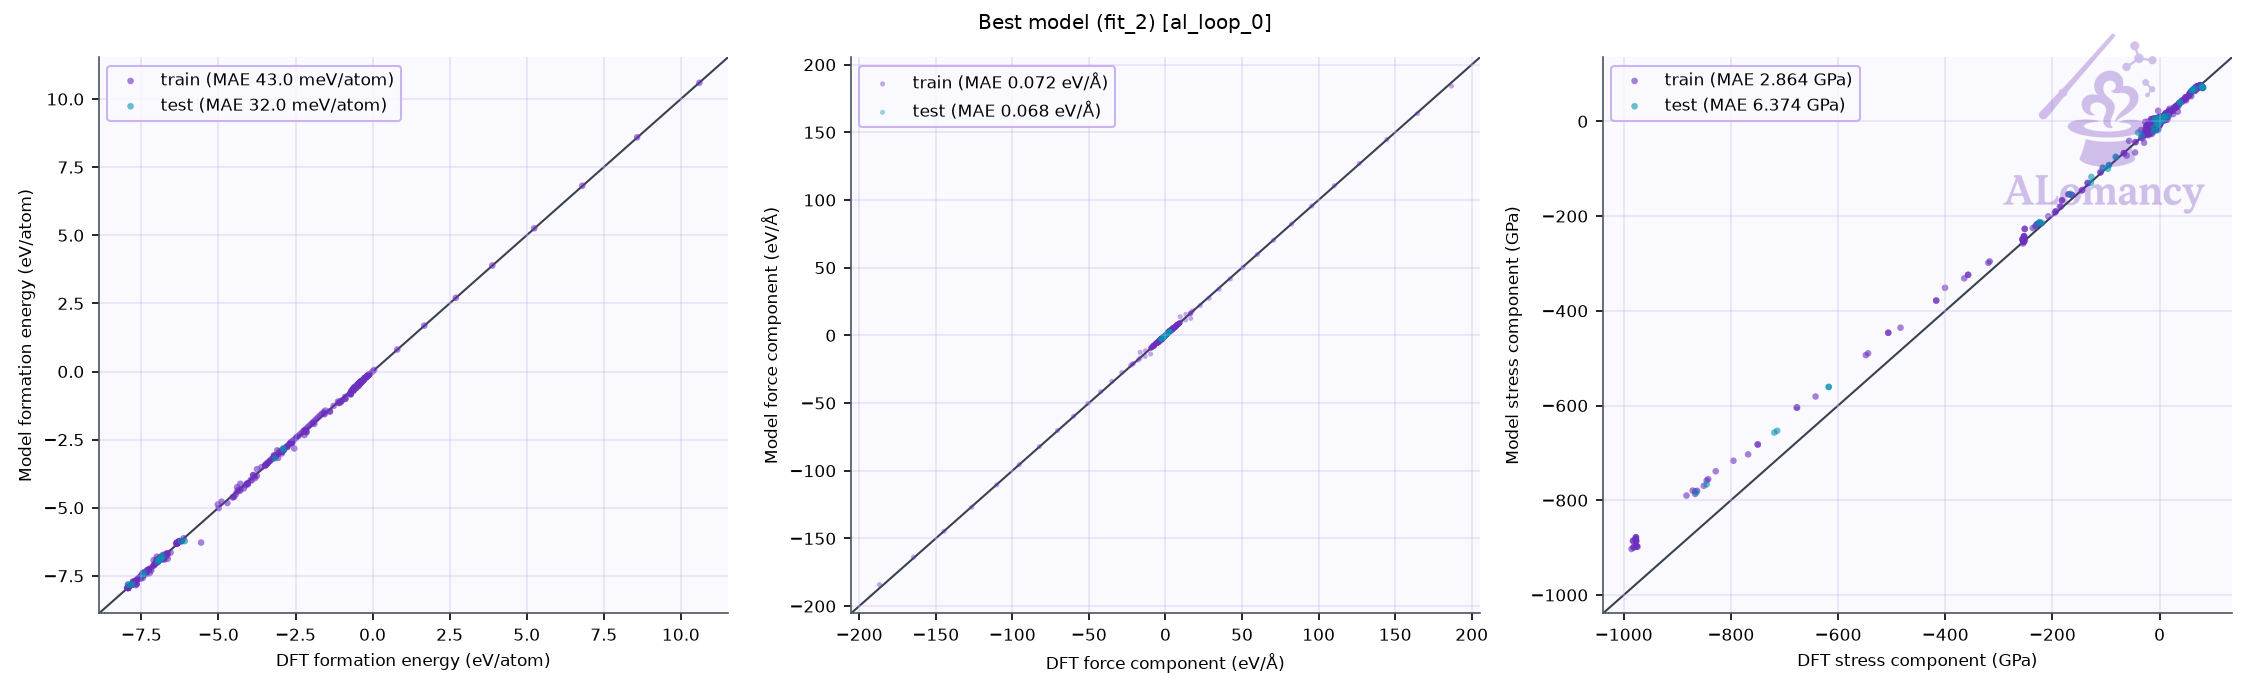
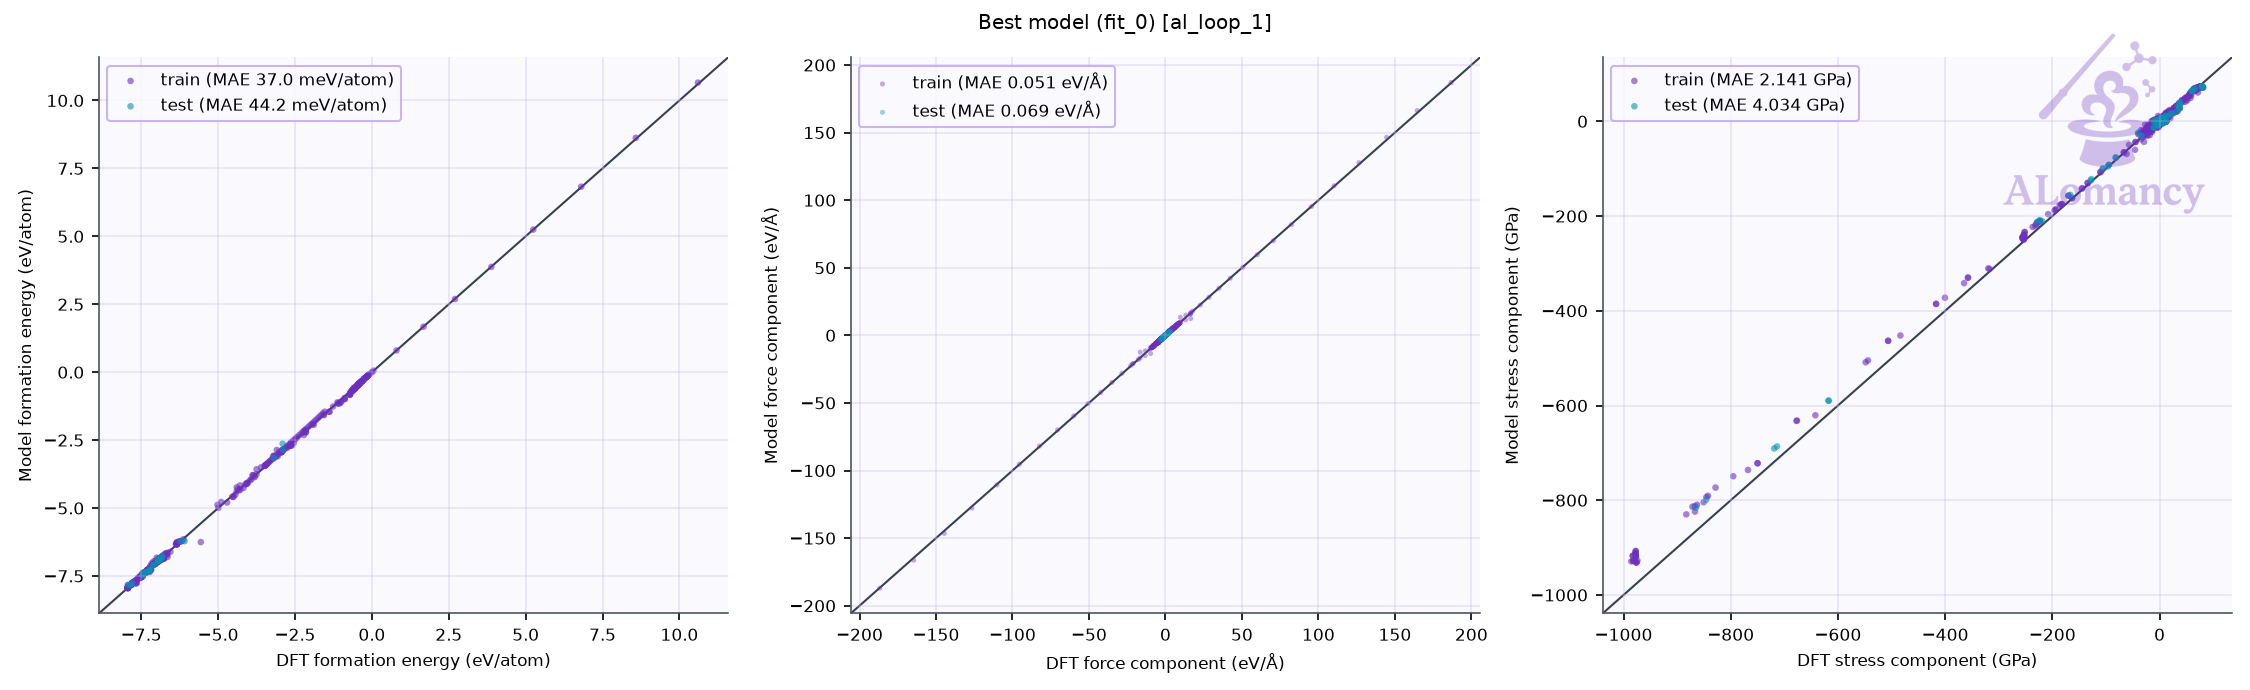
update viper_omat_ezga_committee, viper_omat_ezga_novelty, viper_omat_md_novelty, viper_omat_md_random

diff --git a/alomancy/viper_omat_ezga_committee/report/report.md b/alomancy/viper_omat_ezga_committee/report/report.md
@@ -1,33 +1,32 @@
-# ALomancy report: al_loop_0
+# ALomancy report: al_loop_1
 
-Workflow `committee_uncertainty` · trainer `mace` · generator `ezga` · evaluator `qe` · generated 2026-11-17T08:26:58
+Workflow `committee_uncertainty` · trainer `mace` · generator `ezga` · evaluator `qe` · generated 2026-11-23T06:09:33
 
-**Status:** ✖ 2 errors · 💡 1 info · 5 warning(s) logged
+**Status:** 💡 1 info · 3 warning(s) logged
 
 ## Headline
 
-| | previous | loop 0 | change |
+| | loop 0 | loop 1 | change |
 |---|---:|---:|---:|
-| Best model test force MAE (eV/Å) | n/a | 0.0683 |  |
-| Best model test energy MAE (meV/atom) | n/a | 32 |  |
-| Training structures | n/a | 436 |  |
-| Test structures | n/a | 27 |  |
-| New structures this loop | n/a | 47 |  |
-| Warnings / errors logged | n/a | 5 |  |
+| Best model test force MAE (eV/Å) | 0.0683 | 0.0685 | +0% |
+| Best model test energy MAE (meV/atom) | 32 | 44.2 | +38% |
+| Training structures | 436 | 524 | +20% |
+| Test structures | 27 | 37 | +37% |
+| New structures this loop | 47 | 49 | +4% |
+| Warnings / errors logged | 5 | 3 | -40% |
 
-Best model: fit_2 of 3 (chosen on the `valid` split).
+Best model: fit_0 of 3 (chosen on the `valid` split).
 
 ## Issues & suggestions
 
-- ✖ **remote_jobs_failed**: 3/57 remote jobs (5%) failed (3) or died (0). Check the job logs (results/alomancy.log has each failure's traceback); jobs killed by the scheduler usually need a longer max_time for that phase, or a partition with more memory.
-- ✖ **dft_partial_failure**: 3/50 structures sent to DFT (6%) came back without a result. Check the DFT output in results/<loop>/high_accuracy_evaluation; raise high_accuracy_evaluation.max_time / max_go_time if jobs timed out.
-- 💡 **queue_dominated**: training_plots spent 99% of its time (12.3 h) queued. Raise max_num_of_concurrent_jobs in the HPC profile or use a less busy partition.
+- 💡 **queue_dominated**: high_accuracy_evaluation spent 99% of its time (97.5 h) queued. Raise max_num_of_concurrent_jobs in the HPC profile or use a less busy partition.
 
 ## Trends
 
 | loop | test F-MAE (eV/Å) | train | new | DFT returned | GO converged | new redundant | warnings |
 |---:|---:|---:|---:|---:|---:|---:|---:|
 | 0 | 0.0683 | 436 | 47 | 47/50 | 100% | 0 | 5 |
+| 1 | 0.0685 | 524 | 49 | 49/50 | 100% | 0 | 3 |
 
 ![Best-model MAE per loop](plots/training_al_loop_mae_plot.png)
 
@@ -37,7 +36,7 @@ Best model: fit_2 of 3 (chosen on the `valid` split).
 
 ![Best model parity](plots/best_model_parity.png)
 
-Median relative error: train energy 1.0%, force 6.6%; test energy 0.3%, force 16.6%.
+Median relative error: train energy 0.7%, force 5.7%; test energy 0.3%, force 10.9%.
 Energies with |formation energy| < 0.05 eV/atom and atoms with |F| < 0.1 eV/Å are left out; force error is |ΔF|/|F| per atom.
 
 ![Best model percentage error](plots/best_model_percent_error.png)
@@ -47,17 +46,17 @@ Energies with |formation energy| < 0.05 eV/atom and atoms with |F| < 0.1 eV/Å a
 | config_type | Train | Test | Excluded: quality filter | total |
 |---|---:|---:|---:|---:|
 | IsolatedAtom | 1 | 0 | 0 | 1 |
-| high_sd | 77 | 9 | 8 | 94 |
+| high_sd | 165 | 19 | 8 | 192 |
 | init_MP | 7 | 1 | 0 | 8 |
 | init_amorphous | 26 | 3 | 0 | 29 |
 | init_dimer | 79 | 0 | 0 | 79 |
 | init_rattle | 41 | 1 | 232 | 274 |
 | init_stretch_compress | 126 | 13 | 129 | 268 |
 | init_trimer | 79 | 0 | 0 | 79 |
-| **all** | **436** | **27** | **369** | **832** |
+| **all** | **524** | **37** | **369** | **930** |
 
-- Redundancy removal: 0 structure(s) flagged in total, 0 of this loop's 47 new.
-- DFT geometry-optimisation starting frames: 47 stored this loop, 39 used (the rest excluded by the train/test filters or redundancy removal).
+- Redundancy removal: 0 structure(s) flagged in total, 0 of this loop's 49 new.
+- DFT geometry-optimisation starting frames: 49 stored this loop, 49 used (the rest excluded by the train/test filters or redundancy removal).
 - Quality filters: high_force: 369, formation_energy: 17.
 
 ![Training set composition](plots/training_set_composition.png)
@@ -66,17 +65,17 @@ Energies with |formation energy| < 0.05 eV/atom and atoms with |F| < 0.1 eV/Å a
 
 Redundancy removal flags near-duplicate training structures, so the model isn't trained on many copies of the same geometry. Each structure is described by `char_vec_128`: all of its interatomic distances, sorted and resampled to 128 values (`global_descriptor/atomic_distance_descriptor.make_char_vec`). Two structures count as duplicates when the Euclidean distance between their descriptors is below a tolerance: in database order, each structure still in the training set is kept unless it is within the tolerance of one already kept. The plot sweeps that tolerance and counts how many structures are kept at each value. **We are looking for plateaus** (shaded): ranges where the count doesn't change, so the result doesn't depend on the exact tolerance. The orange line (right axis) is the number of structures removed between consecutive tolerance steps, the gradient of the count: zero on a plateau. The start of the lowest plateau at least `general.redundancy_kwargs.min_plateau_width` of the swept range wide is used (dashed line). Nothing is flagged when no plateau qualifies, or when it would flag more than `max_flagged_fraction` of the structures; `general.redundancy_kwargs.tolerance` sets the tolerance directly.
 
-- This loop: 151 structures probed; the lowest plateau would flag more than 50% of them, so nothing was flagged.
+- This loop: 239 structures probed; the lowest plateau would flag more than 50% of them, so nothing was flagged.
 
 ![Redundancy tolerance probe](plots/redundancy_tolerance_probe.png)
 
 ## DFT
 
-- Structures: 47 returned of 50 submitted (47 relaxed, 0 single point).
-- Geometry optimisation: 47/47 reached the force ceiling (0.05 eV/Å); steps mean 25.1, median 15, max 167 of 200 allowed.
-- Average DFT time per relaxation: 16.2 min (median 10.7, max 96.9; 47 structures).
+- Structures: 49 returned of 50 submitted (49 relaxed, 0 single point).
+- Geometry optimisation: 49/49 reached the force ceiling (0.05 eV/Å); steps mean 21.0, median 17, max 138 of 200 allowed.
+- Average DFT time per relaxation: 9.5 min (median 7.3, max 53.1; 49 structures).
 - Largest per-atom force after DFT: median 0.04, max 0.05 eV/Å.
-- DFT phase wall-clock: 3.6 h (mean queue time 98 min).
+- DFT phase wall-clock: 98.5 h (mean queue time 5849 min).
 
 **Structures evaluated with DFT this loop (final geometries)**
 
@@ -84,14 +83,14 @@ Redundancy removal flags near-duplicate training structures, so the model isn't 
 
 ## MLIP training: mace
 
-- Best fit (fit_2) trained for 299 epochs, stage two from epoch 240; weights kept from epoch 249.
+- Best fit (fit_0) trained for 299 epochs, stage two from epoch 240; weights kept from epoch 260.
 
 ![Best model training curve](plots/best_model_training_curve.png)
 
 ## Structure generation: EZGA
 
 - Seeds: 8, generations run: 11 (max_generations 10, population 100)
-- Structures generated: 497, taken as candidates: 497 (newest first, back to generation 0)
+- Structures generated: 550, taken as candidates: 500 (newest first, back to generation 4)
 - Mutations: mutation_rattle, mutation_random_strain, bounded_mutation_add, bounded_mutation_remove
 
 ![Ezga generations](plots/ezga_generations.png)
@@ -106,7 +105,7 @@ Redundancy removal flags near-duplicate training structures, so the model isn't 
 
 ## Selection: committee uncertainty
 
-- 497 candidates scored; 50 selected (10 %; max force std dev ≥ 0.29 eV/Å).
+- 500 candidates scored; 50 selected (10 %; max force std dev ≥ 0.132 eV/Å).
 
 ![Committee force std dev](plots/committee_force_std_dev.png)
 
@@ -116,7 +115,8 @@ Redundancy removal flags near-duplicate training structures, so the model isn't 
 |---|---|---:|
 | `dft_summary` | DFT batch summary | 1 |
 | `ezga_summary` | EZGA summary | 1 |
-| `job_failed` | remote job failed | 3 |
+| `job_failed` | remote job failed | 1 |
+| `job_still_queued` | jobs still queued after their time limit (waiting on) | 139 |
 | `jobs_started` | remote jobs started | 4 |
 | `quality_filtered` | train/test quality filter passes | 2 |
 | `redundancy_cap_hit` | redundancy removal skipped (would flag too many) | 1 |

diff --git a/alomancy/viper_omat_md_random/report/report.md b/alomancy/viper_omat_md_random/report/report.md
@@ -1,0 +1,118 @@
+# ALomancy report: al_loop_0
+
+Workflow `random_selection` · trainer `mace` · generator `md` · evaluator `qe` · generated 2026-11-23T06:26:13
+
+**Status:** 💡 1 info · 2 warning(s) logged
+
+## Headline
+
+| | previous | loop 0 | change |
+|---|---:|---:|---:|
+| Best model test force MAE (eV/Å) | n/a | 0.0724 |  |
+| Best model test energy MAE (meV/atom) | n/a | 33.6 |  |
+| Training structures | n/a | 449 |  |
+| Test structures | n/a | 28 |  |
+| New structures this loop | n/a | 50 |  |
+| Warnings / errors logged | n/a | 2 |  |
+
+Best model: fit_0 of 1 (chosen on the `valid` split).
+
+## Issues & suggestions
+
+- 💡 **queue_dominated**: high_accuracy_evaluation spent 99% of its time (98.1 h) queued. Raise max_num_of_concurrent_jobs in the HPC profile or use a less busy partition.
+
+## Trends
+
+| loop | test F-MAE (eV/Å) | train | new | DFT returned | GO converged | new redundant | warnings |
+|---:|---:|---:|---:|---:|---:|---:|---:|
+| 0 | 0.0724 | 449 | 50 | 50/50 | 100% | 0 | 2 |
+
+![Best-model MAE per loop](plots/training_al_loop_mae_plot.png)
+
+![Time per phase and loop](plots/timing_combined.png)
+
+## Best model
+
+![Best model parity](plots/best_model_parity.png)
+
+Median relative error: train energy 1.0%, force 6.3%; test energy 0.3%, force 16.7%.
+Energies with |formation energy| < 0.05 eV/atom and atoms with |F| < 0.1 eV/Å are left out; force error is |ΔF|/|F| per atom.
+
+![Best model percentage error](plots/best_model_percent_error.png)
+
+## Training set
+
+| config_type | Train | Test | Excluded: quality filter | total |
+|---|---:|---:|---:|---:|
+| IsolatedAtom | 1 | 0 | 0 | 1 |
+| init_MP | 7 | 1 | 0 | 8 |
+| init_amorphous | 26 | 3 | 0 | 29 |
+| init_dimer | 79 | 0 | 0 | 79 |
+| init_rattle | 41 | 1 | 232 | 274 |
+| init_stretch_compress | 126 | 13 | 129 | 268 |
+| init_trimer | 79 | 0 | 0 | 79 |
+| random_selection | 90 | 10 | 0 | 100 |
+| **all** | **449** | **28** | **361** | **838** |
+
+- Redundancy removal: 0 structure(s) flagged in total, 0 of this loop's 50 new.
+- DFT geometry-optimisation starting frames: 50 stored this loop, 50 used (the rest excluded by the train/test filters or redundancy removal).
+- Quality filters: high_force: 361, formation_energy: 17.
+
+![Training set composition](plots/training_set_composition.png)
+
+### Redundancy removal
+
+Redundancy removal flags near-duplicate training structures, so the model isn't trained on many copies of the same geometry. Each structure is described by `char_vec_128`: all of its interatomic distances, sorted and resampled to 128 values (`global_descriptor/atomic_distance_descriptor.make_char_vec`). Two structures count as duplicates when the Euclidean distance between their descriptors is below a tolerance: in database order, each structure still in the training set is kept unless it is within the tolerance of one already kept. The plot sweeps that tolerance and counts how many structures are kept at each value. **We are looking for plateaus** (shaded): ranges where the count doesn't change, so the result doesn't depend on the exact tolerance. The orange line (right axis) is the number of structures removed between consecutive tolerance steps, the gradient of the count: zero on a plateau. The start of the lowest plateau at least `general.redundancy_kwargs.min_plateau_width` of the swept range wide is used (dashed line). Nothing is flagged when no plateau qualifies, or when it would flag more than `max_flagged_fraction` of the structures; `general.redundancy_kwargs.tolerance` sets the tolerance directly.
+
+- This loop: 164 structures probed; the lowest plateau would flag more than 50% of them, so nothing was flagged.
+
+![Redundancy tolerance probe](plots/redundancy_tolerance_probe.png)
+
+## DFT
+
+- Structures: 50 returned of 50 submitted (50 relaxed, 0 single point).
+- Geometry optimisation: 50/50 reached the force ceiling (0.05 eV/Å); steps mean 14.3, median 13, max 33 of 200 allowed.
+- Average DFT time per relaxation: 9.5 min (median 9.6, max 18.0; 50 structures).
+- Largest per-atom force after DFT: median 0.04, max 0.05 eV/Å.
+- DFT phase wall-clock: 98.8 h (mean queue time 5888 min).
+
+**Structures evaluated with DFT this loop (final geometries)**
+
+![Structures evaluated with DFT this loop (final geometries)](plots/added_structures.gif)
+
+## MLIP training: mace
+
+- Best fit (fit_0) trained for 299 epochs, stage two from epoch 240; weights kept from epoch 244.
+
+![Best model training curve](plots/best_model_training_curve.png)
+
+## Structure generation: MD
+
+- Runs: 50 (50 completed, 0 seed(s) replaced)
+- Frames: 5000 recorded, 4950 physical (no bond < 0.5 Å, volume ≤ 3 x the seed's, seed frames left out), 500 picked as candidates, spread over each run
+- Ensemble npt, T = 500 K, timestep 0.2 fs
+
+![MD frames per run](plots/md_frames_per_run.png)
+
+![MD temperature](plots/md_temperature.png)
+
+## High-accuracy evaluation: QE
+
+![DFT geometry steps](plots/dft_geometry_steps.png)
+
+![DFT wall time](plots/dft_wall_time.png)
+
+## Warnings and events
+
+| event | meaning | count |
+|---|---|---:|
+| `dft_summary` | DFT batch summary | 1 |
+| `job_still_queued` | jobs still queued after their time limit (waiting on) | 182 |
+| `jobs_started` | remote jobs started | 2 |
+| `md_summary` | MD summary | 1 |
+| `quality_filtered` | train/test quality filter passes | 2 |
+| `redundancy_cap_hit` | redundancy removal skipped (would flag too many) | 1 |
+
+Other warnings (most frequent first):
+
+- (1x) Only 30 structures available for 50 concurrent structure_generation jobs; reusing structures to fill the requested concurrency. Each reused structure is assigned a distinct MD seed (atoms.info['md_see
